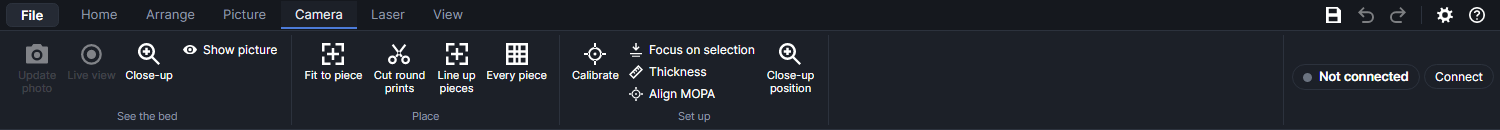
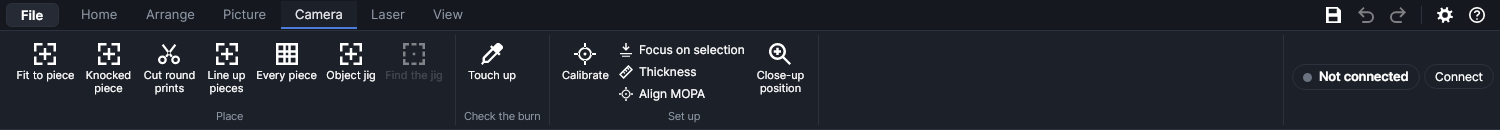
Remove the "See the bed" group from the Camera tab
Update photo, Live view, Close-up and Show picture duplicated the
machine panel's Photo, Live, Close-up and Show buttons, which are on
every tab. The Camera tab now starts with Place. Touch up's group
sits after Place. Help pages and tutorials point at the machine panel
instead, and the Camera tab picture is retaken.

Claude-Session: https://claude.ai/code/session_018iRXF1dmZfwgeNPHfEemUU

diff --git a/src/PhotonCanvas.App/MainWindow.axaml.cs b/src/PhotonCanvas.App/MainWindow.axaml.cs
@@ -623,12 +623,7 @@ public partial class MainWindow : Window
         pclip.Small("Shapes to picture", "IcImage", () => _ = Guard(ShapesToPicture), "Turn the selected shapes into a picture (filled shapes and lines), e.g. to engrave them with a picture style", () => SelectedPaths().Count > 0);
 
         // ---- Camera: what the machine sees ----
-        var camera = _ribbon.Tab("Camera", "Use the machine's camera: photo, live view, fit designs to pieces, calibration");
-        var see = camera.Group("See the bed");
-        see.Large("Update photo", "IcCamera", () => _ = Guard(_machine.UpdatePhotoAsync), "Take a new photo of the bed and lay it under your design", () => _machine.IsConnected && _machine.HasCalibration);
-        see.LargeToggle("Live view", "IcLive", on => _machine.LiveView = on, "Keep the camera picture updating", () => _machine.IsConnected, () => _machine.LiveView);
-        see.LargeToggle("Close-up", "IcZoomIn", ToggleCloseUp, "The close-up camera in the laser head, in a corner of the work area: live or one photo at a time", null, () => CloseUpOpen);
-        see.SmallToggle("Show picture", "IcEye", on => { if (_machine.HasCalibration) _machine.CameraOnWorkArea = on; else _ = Guard(async () => { await _machine.CalibrateAsync(); _ribbon.Refresh(); }); }, "Show the camera picture under the design", null, () => _machine.CameraOnWorkArea);
+        var camera = _ribbon.Tab("Camera", "Use the machine's camera: fit designs to pieces, calibration (photo, live view and close-up are in the machine panel at the right)");
         var fit = camera.Group("Place");
         fit.Large("Fit to piece", "IcFitPiece", () => _ = Guard(FitToCamera), "Snap the selected design onto the real piece the camera sees: moves, turns and resizes it to match (Ctrl+Shift+F)", () => SelectedOutline().Count > 0);
         var cal = camera.Group("Set up");

diff --git a/src/PhotonCanvas.App/CloseUpCalibrationWindow.cs b/src/PhotonCanvas.App/CloseUpCalibrationWindow.cs
@@ -70,7 +70,7 @@ public sealed class CloseUpCalibrationWindow : Window
                     Row(Labelled("Apart (mm)", _spacing), Labelled("Dot size (mm)", _dot))),
                 _plan,
                 add,
-                Hint("Adding the dots closes this window. Frame them and watch the close-up view (Camera → Close-up, live): the red light should trace them well inside the picture. " +
+                Hint("Adding the dots closes this window. Frame them and watch the close-up view (Close-up in the machine panel, then Live): the red light should trace them well inside the picture. " +
                      "Move them until it does, set the \"Close-up marks\" layer's power so they come out dark on your material, and send. When the job finishes, this window opens again on Find the dots."),
             },
         };

diff --git a/tools/HelpShots/DocsSim.cs b/tools/HelpShots/DocsSim.cs
@@ -158,7 +158,7 @@ static class DocsSim
             {
                 "Home/Import", "Home/Picture", "Home/By colour", "Home/Import as…", "Home/Select by…", "Home/More…", "Home/Paste",
                 "Picture/Import picture", "Picture/Depthmap", "Picture/3D model", "Picture/Depth outlines",
-                "Camera/Update photo", "Camera/Live view", "Camera/Close-up", "Camera/Show picture", "Camera/Calibrate", "Camera/Focus on selection",
+                "Camera/Calibrate", "Camera/Focus on selection",
                 "Camera/Thickness", "Camera/Cut round prints",
                 "Laser/Split onto pieces", "Camera/Line up pieces", // set up in MoreShots
                 "Laser/Frame", "Laser/Ship It", "Laser/Export .xf", "Laser/Export G-code", "Laser/Time-lapse", "Laser/Quick on lid close", "Laser/Console",

diff --git a/src/Addons/TouchUp/TouchUpAddon.cs b/src/Addons/TouchUp/TouchUpAddon.cs
@@ -18,7 +18,7 @@ public sealed class TouchUpAddon : IAddon
         host.AddRibbonButton(new RibbonButton("Camera", "Check the burn", "Touch up", "IcEyedropper", Open)
         {
             Large = true,
-            GroupAfter = "Place|See the bed",
+            GroupAfter = "Place",
             Tip = "Burn, look, touch up: photograph a finished engraving, see where it came out too light, and add a touch-up job that goes over only those parts",
             Enabled = () => TouchUpAnalysis.Candidates(TouchUpPage.DesignOf(host.Document.State) ?? host.Document.State).Any(),
         });

diff --git a/docs/help/camera.md b/docs/help/camera.md
@@ -20,9 +20,11 @@ work from a photo saved earlier.
 
 ![The Camera tab](images/ribbon-camera.png)
 
+The camera picture itself is worked from the machine panel at the right end of the ribbon, on every
+tab: **Photo**, **Show**, **Live** and **Close-up** (see [The machine and settings](machine.md)).
+
 | Group | Buttons |
 |---|---|
-| **See the bed** | **Update photo**, **Live view**, **Close-up**, **Show picture** |
 | **Place** | **Fit to piece**; add-ons add **Cut round prints** and **Every piece** (Camera placement) and **Line up pieces** (Split onto pieces) |
 | **Set up** | **Calibrate**, **Focus on selection**, **Thickness**, **Align MOPA**, **Close-up position** |
 
@@ -30,7 +32,7 @@ work from a photo saved earlier.
 
 | Feature | Needs |
 |---|---|
-| **Show picture**, **Update photo**, **Live view** on the work area | Connected; the camera calibrated (**Calibrate**) |
+| **Show**, **Photo**, **Live** on the work area | Connected; the camera calibrated (**Calibrate**) |
 | **Close-up** | Connected. Laying its photo on the work area also needs **Close-up position** at the current focus height |
 | **Fit to piece**, **Every piece** | Connected; the camera calibrated near the piece's height; the design selected |
 | **Line up pieces** | Connected; the camera calibrated near the pieces' height; a piece's page from **Split onto pieces** (both from the Split onto pieces add-on) |
@@ -71,17 +73,17 @@ give them.
 > **Tip:** Auto-focus on the material before you rely on the picture. With the picture on, a new
 > photo is taken by itself after auto-focus or after moving the head.
 
-### Show picture
+### Show the picture
 
-**Show picture** (a toggle) lays the latest photo under the design, or hides it. Turning it on takes
+**Show** (a toggle in the machine panel) lays the latest photo under the design, or hides it. Turning it on takes
 a fresh photo. If the camera isn't calibrated yet, it opens the calibration instead. When a
 calibration exists, the picture is always on when the program starts (whatever it was last time),
 and a photo is taken as soon as the machine connects.
 
-### Update photo
+### Take a new photo
 
-**Update photo** takes a new overview photo and lays it under the design, turning **Show picture**
-on if it was off. Use it after moving or changing the material. Greyed out until the machine is
+**Photo** (in the machine panel) takes a new overview photo and lays it under the design, turning
+**Show** on if it was off. Use it after moving or changing the material. Greyed out until the machine is
 connected and the camera calibrated.
 
 What happens for each photo:
@@ -95,8 +97,9 @@ What happens for each photo:
 
 ### Live view
 
-**Live view** (a toggle) keeps the overview camera taking photos one after another, about 3 to 4 a
-second over Wi-Fi. With **Show picture** on, each one is straightened and laid under the design, so
+**Live** (a toggle in the machine panel) keeps the overview camera taking photos one after another,
+about 3 to 4 a second over Wi-Fi. It also turns the picture on when the camera is calibrated. With
+**Show** on, each one is straightened and laid under the design, so
 you can watch the material as you place it. Greyed out until the machine is connected.
 
 - It pauses while a photo, an upload or a frame uses the connection, then carries on.
@@ -106,12 +109,10 @@ you can watch the material as you place it. Greyed out until the machine is conn
 
 ### The other camera controls
 
-- **At the right end of the ribbon** (when connected): **Photo** (as **Update photo**), **Show** (as
-  **Show picture**; right-click it for **Camera picture opacity**), **Live** (live view; it also
-  turns the picture on when the camera is calibrated), **Close-up** and **Lights**. See
-  [The machine and settings](machine.md).
+- **In the machine panel**: right-click **Show** for **Camera picture opacity**; **Lights** for the
+  fill lights. See [The machine and settings](machine.md).
 - **Settings → Machine → Work area camera**: **Camera on work area** (the same switch as
-  **Show picture**), **Opacity** (how strongly the picture shows under the design, 0.15 to 1,
+  **Show**), **Opacity** (how strongly the picture shows under the design, 0.15 to 1,
   default 0.85), **Update photo**, **Calibrate camera…**, and the list of calibrated heights.
 - **Settings → Machine → Camera lights**: the machine's **Front** and **Back** fill lights, off to
   100 %. Saved on the machine. With the picture on and live view off, changing them retakes the
@@ -130,14 +131,14 @@ material, and for a time-lapse of a job (the Time-lapse add-on).
 
 ### Close-up
 
-**Close-up** (a toggle) opens the close-up camera in the bottom-right corner of the work area, under
+**Close-up** (a toggle in the machine panel) opens the close-up camera in the bottom-right corner of the work area, under
 the title **CLOSE-UP CAMERA**. The first time it opens it takes a photo; after that it shows the last
 photo until you click **Photo** or **Live**. The camera sits turned in the head; its picture is
 turned back so the bed looks straight.
 
 | Button | What it does |
 |---|---|
-| **Live** | Keeps the close-up updating (a little under 3 photos a second). The overview's live view stops meanwhile: turn **Live view** on again afterwards. |
+| **Live** | Keeps the close-up updating (a little under 3 photos a second). The overview's live view stops meanwhile: turn the machine panel's **Live** on again afterwards. |
 | **Photo** | Takes one new close-up photo. |
 | **Save** | Saves a full-size close-up photo, exactly as the camera took it: a fresh one when connected, otherwise the last one. |
 | **Bigger** / **Smaller** | Switches between two sizes of the viewer. |
@@ -170,7 +171,7 @@ about 5 minutes and a scrap sheet, once for each material height you use. Checke
 machine.
 
 It also opens from **Calibrate camera…** (the machine status menu at the right end of the ribbon,
-and Settings → Machine), and from **Show picture** while the camera isn't calibrated.
+and Settings → Machine), and from **Show** in the machine panel while the camera isn't calibrated.
 
 The photo is on the left (scroll to zoom, right- or middle-drag to move it about); the five steps
 are on the right.

diff --git a/docs/help/workspace.md b/docs/help/workspace.md
@@ -32,7 +32,7 @@ a tab's name for what the tab holds.
 | **Home** | Clipboard, Select, Draw, Serial & codes, Group, Shape builder, Outline, Bring in | [Working on the canvas](canvas.md) (Clipboard, Select), [Drawing](drawing.md), [Editing shapes](editing-shapes.md), [Files](files.md) |
 | **Arrange** | Align, Flip & rotate, Order, Repeat, Transform | [Arranging](arrange.md) |
 | **Picture** | Add, Turn it into, Shape, Edit, Relief, Clean up | [Pictures](pictures.md) |
-| **Camera** | See the bed, Place, Set up | [Camera](camera.md) |
+| **Camera** | Place, Set up | [Camera](camera.md) |
 | **Laser** | Materials, Job, Work area, Machine (and the add-ons' Tests and Colour on metal) | [Materials and tests](materials-and-tests.md), [Running a job](running-jobs.md), [Work area](work-area.md), [The machine and settings](machine.md) |
 | **View** | Zoom, Grid & snapping, Measure & history, Show | [The View tab](#the-view-tab) below |
 
@@ -119,7 +119,7 @@ zooming, snapping, guides, measuring, editing points, the right-click menu) is o
 - Drag a file from your computer onto the window to import it, or drop a project file to open
   it. See [Files](files.md).
 - The close-up camera's picture opens in the bottom-right corner of the work area
-  (Camera → **Close-up**). See [Camera](camera.md).
+  (**Close-up** in the machine panel). See [Camera](camera.md).
 
 ## The pages bar
 

diff --git a/docs/help/tutorials/cam-see-the-bed.md b/docs/help/tutorials/cam-see-the-bed.md
@@ -17,16 +17,16 @@ Click **Auto-focus** at the right end of the ribbon. The picture lines up for th
 machine is focused at.
 
 ## Show the picture
-<!-- target: ribbon:Camera/Show picture -->
-Click **Show picture** on the **Camera** tab. A photo is taken and laid under the design.
+<!-- target: panel:Machine -->
+Click **Show** at the right end of the ribbon. A photo is taken and laid under the design.
 
 ## Take a new photo
-<!-- target: ribbon:Camera/Update photo -->
-Move the material, then click **Update photo** to see it where it is now.
+<!-- target: panel:Machine -->
+Move the material, then click **Photo** to see it where it is now.
 
 ## Watch it live
-<!-- target: ribbon:Camera/Live view -->
-Click **Live view**: the picture keeps updating, 3 to 4 photos a second. Click it again to stop.
+<!-- target: panel:Machine -->
+Click **Live**: the picture keeps updating, 3 to 4 photos a second. Click it again to stop.
 
 ## Make it fainter
 <!-- target: panel:Machine -->

diff --git a/docs/help/tutorials/cam-close-up.md b/docs/help/tutorials/cam-close-up.md
@@ -11,8 +11,8 @@ detail, a burned test, or where the red pointer lands.
 This needs the machine connected (see [The machine and settings](machine.md)).
 
 ## Open the close-up camera
-<!-- target: ribbon:Camera/Close-up -->
-Click **Close-up** on the **Camera** tab. It opens in the bottom-right corner of the work area. The
+<!-- target: panel:Machine -->
+Click **Close-up** at the right end of the ribbon. It opens in the bottom-right corner of the work area. The
 first time, it takes a photo; after that it shows the last one until you click **Photo** or
 **Live**.
 
@@ -24,5 +24,5 @@ first time, it takes a photo; after that it shows the last one until you click *
 - **Bigger** and **Smaller** change its size.
 
 ## Close it
-<!-- target: ribbon:Camera/Close-up -->
+<!-- target: panel:Machine -->
 Click **Close-up** again, or the ✕ on the viewer.

diff --git a/docs/help/tutorials/draw-pick-piece.md b/docs/help/tutorials/draw-pick-piece.md
@@ -7,8 +7,8 @@
 outline to fit a design inside it, cut round it or mark it as your material.
 
 ## Show the camera picture
-<!-- target: ribbon:Camera/Show picture -->
-This needs the machine connected and the camera calibrated. Put the piece on the bed and click **Show picture** on the **Camera** tab (see [See the bed under your design](tutorial:cam-see-the-bed)).
+<!-- target: panel:Machine -->
+This needs the machine connected and the camera calibrated. Put the piece on the bed and click **Show** in the machine panel at the right end of the ribbon (see [See the bed under your design](tutorial:cam-see-the-bed)).
 
 ## Choose Pick piece
 <!-- target: ribbon:Home/Pick piece -->

diff --git a/docs/help/materials-and-tests.md b/docs/help/materials-and-tests.md
@@ -76,7 +76,7 @@ The **Bevel test** is done once for the machine, not per material.
 ## How the camera reads results
 
 **Update photo** in a test window takes a fresh photo with the overview camera, the same as
-**Update photo** on the Camera tab: it needs the machine connected and the camera calibrated
+**Photo** in the machine panel: it needs the machine connected and the camera calibrated
 (**Camera → Calibrate**, see [Camera](camera.md)). The photo is straightened onto the bed, and
 each square, circle or patch is cut out of it where its shape is. A camera calibrated at another
 height than the material's shows the wrong spot; **Etch rate** warns when that may be so.

diff --git a/docs/help/tutorials/draw-trace-edge.md b/docs/help/tutorials/draw-trace-edge.md
@@ -7,8 +7,8 @@
 it. Use it when **Pick piece** can't tell the piece from what's around it, or for part of an edge.
 
 ## Show the camera picture
-<!-- target: ribbon:Camera/Show picture -->
-This needs the machine connected and the camera calibrated. Put the piece on the bed and click **Show picture** on the **Camera** tab.
+<!-- target: panel:Machine -->
+This needs the machine connected and the camera calibrated. Put the piece on the bed and click **Show** in the machine panel at the right end of the ribbon.
 
 ## Choose Trace edge
 <!-- target: ribbon:Home/Trace edge -->
